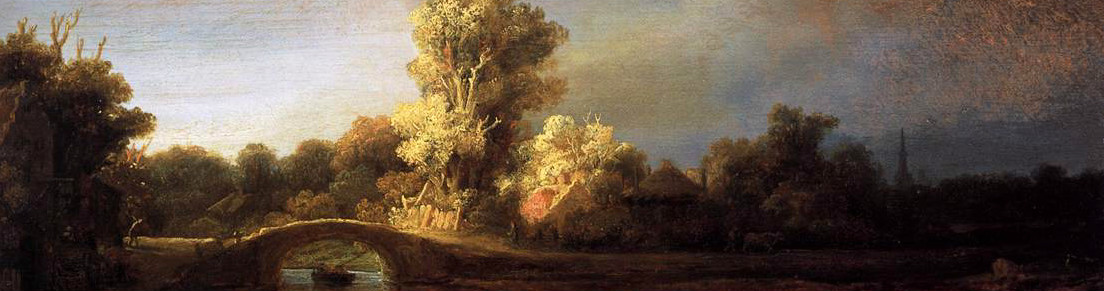
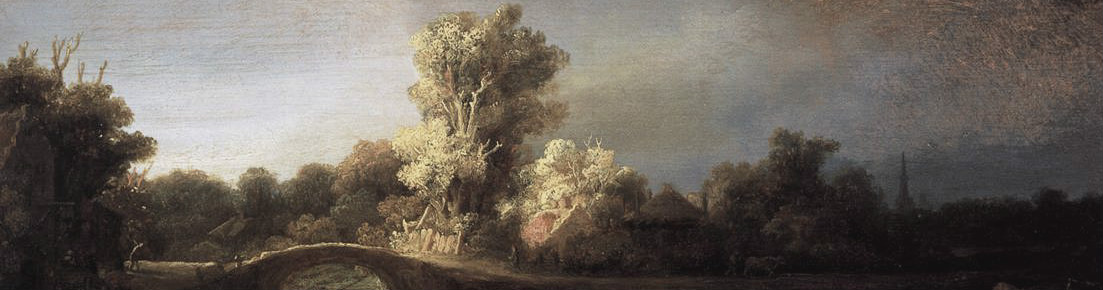
Change background pictures

diff --git a/_layouts/page.html b/_layouts/page.html
@@ -23,7 +23,7 @@
     {% endif %}
   alt="{{ page.title }} feature image">
   {% if page.image.credit %}
-    <span class="image-credit">Photo Credit: <a href="{{ page.image.creditlink }}">{{ page.image.credit }}</a></span>
+    <span class="image-credit"><a href="{{ page.image.creditlink }}">{{ page.image.credit }}</a></span>
   {% endif %}
   </div><!-- /.image-wrap -->
 {% endif %}
@@ -38,7 +38,6 @@
       {{ content }}
       {% if page.share != false %}
         <hr />
-        {% include _social-share.html %}
       {% endif %}
     </div><!-- /.article-wrap -->
     {% if site.owner.disqus-shortname and page.comments == true %}

diff --git a/_layouts/post.html b/_layouts/post.html
@@ -44,7 +44,6 @@
       {{ content }}
       <hr />
       <footer role="contentinfo">
-        {% if page.share != false %}{% include _social-share.html %}{% endif %}
         <p class="byline"><strong>{{ page.title }}</strong> was published on <time datetime="{{ page.date | date_to_xmlschema }}">{{ page.date | date: "%B %d, %Y" }}</time>{% if page.modified %} and last modified on <time datetime="{{ page.modified | date: "%Y-%m-%d" }}">{{ page.modified | date: "%B %d, %Y" }}</time>{% endif %}.</p>
       </footer>
     </div><!-- /.article-wrap -->

diff --git a/about/index.md b/about/index.md
@@ -1,25 +1,19 @@
 ---
 layout: page
-title: About the Theme
+title: About me
 tags: [about, Jekyll, theme, responsive]
 modified: 2014-08-08T20:53:07.573882-04:00
 comments: true
 image:
-  feature: sample-image-2.jpg
-  credit: WeGraphics
-  creditlink: http://wegraphics.net/downloads/free-ultimate-blurred-background-pack/
+  feature: stonebridge_top.jpg
+  credit: "Nothing like some Rembrandt to class things up"
+  creditlink:
 ---
 
-Minimal Mistakes is responsive Jekyll theme with large featured images and solid typography. As the name implies the styling is fairly minimal to make it easier for you to build on top of.
+- My resume is available [here](https://github.com/gy8/resume/raw/master/yang_resume.pdf)
+([source](https://github.com/gy8/resume))
 
-## Minimal Mistakes is all about:
+- With a background in computational mathematics, I am interested in learning and applying
+data engineering and data science.
 
-* Responsive templates. Looking good on mobile, tablet, and desktop.
-* Gracefully degrading in older browsers. Compatible with Internet Explorer 8+ and all modern browsers. 
-* Minimal embellishments -- content first.
-* Optional large feature images for posts and pages.
-* Simple and clear permalink structure.
-* [Custom 404 page](http://mmistakes.github.io/minimal-mistakes/404.html) to get you started.
-* Support for Disqus Comments
 
-<a markdown="0" href="{{ site.url }}/theme-setup" class="btn">Install Minimal Mistakes Theme</a>

diff --git a/index.md b/index.md
@@ -3,7 +3,7 @@ layout: home
 excerpt: "A minimal Jekyll theme for your blog by designer Michael Rose."
 tags: [Jekyll, theme, responsive, blog, template]
 image:
-  feature: stonebridge_bottom2.jpg
+  feature: stonebridge_bottom.jpg
   credit: "Nothing like some Rembrandt to class things up"
-  creditlink: http://wegraphics.net/downloads/free-ultimate-blurred-background-pack/
+  creditlink:
 ---
